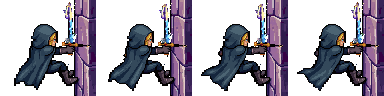
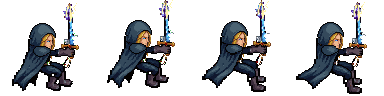
Shockline aim pose, elemental swing waves, easier wall climbing
- Shockline: Storm stops and points the blade while lightning gathers, then the tip fires
- Swings throw a crescent wave that grows with each blade piece and takes on its elements
- Jumping while holding toward a wall climbs it; cling pose drawn flush with the wall
- Ice+lightning cling animation no longer paints its own wall

diff --git a/README.md b/README.md
@@ -26,9 +26,11 @@ land a down-slash on an enemy or spikes to bounce off them (pogo).
 
 **Dash:** a quick slide along the ground on Storm's back, the ice blade freezing the floor behind him. Ground only. Storm is half height while sliding, so he fits under low gaps, and sliding into an enemy strikes it and bounces him back.
 **Wall jump:** Storm hooks the hilt's sword catcher into the stone. Hold toward a wall while
-falling to cling and slide down slowly; jump to kick off. Grabbing a wall restores the double jump.
+falling to cling and slide down slowly. Jump while still holding toward the wall to climb it (a hop
+straight up and back onto the wall); jump without holding toward it to kick off and away. Grabbing a
+wall restores the double jump.
 **Double jump:** jump again in midair to spin in a ring of fire that strikes every enemy around you. Storm is half height during the spin. Once per jump.
-**Shockline:** fires the blade's lightning tip straight ahead on a line of barbed wire, like a harpoon, and drags you to whatever it hits, or to
+**Shockline:** Storm points the blade and lightning gathers, then he fires the blade's lightning tip straight ahead on a line of barbed wire, like a harpoon, and drags you to whatever it hits, or to
 the end of the line if it hits nothing. Enemies get struck. On a grapple ring you hang for as
 long as you hold right click: let go to drop, or jump to leap off. Jump mid-pull to cancel.
 
